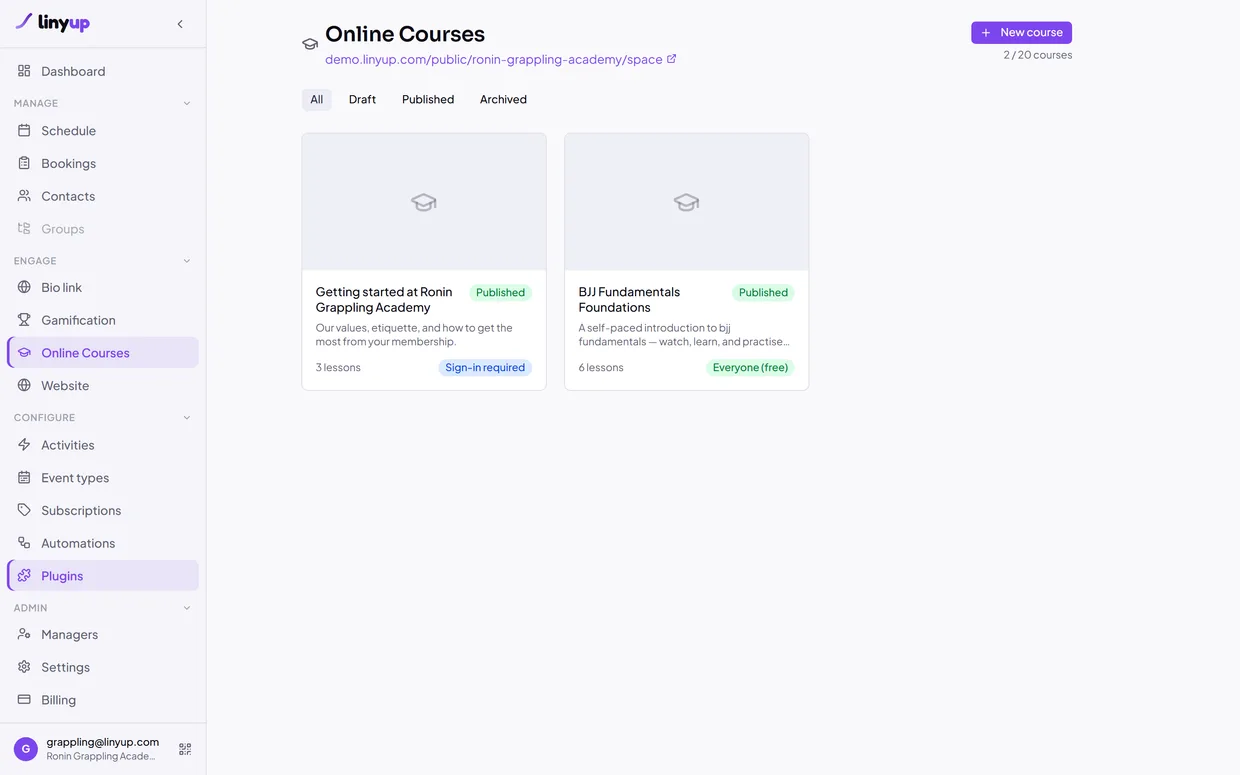
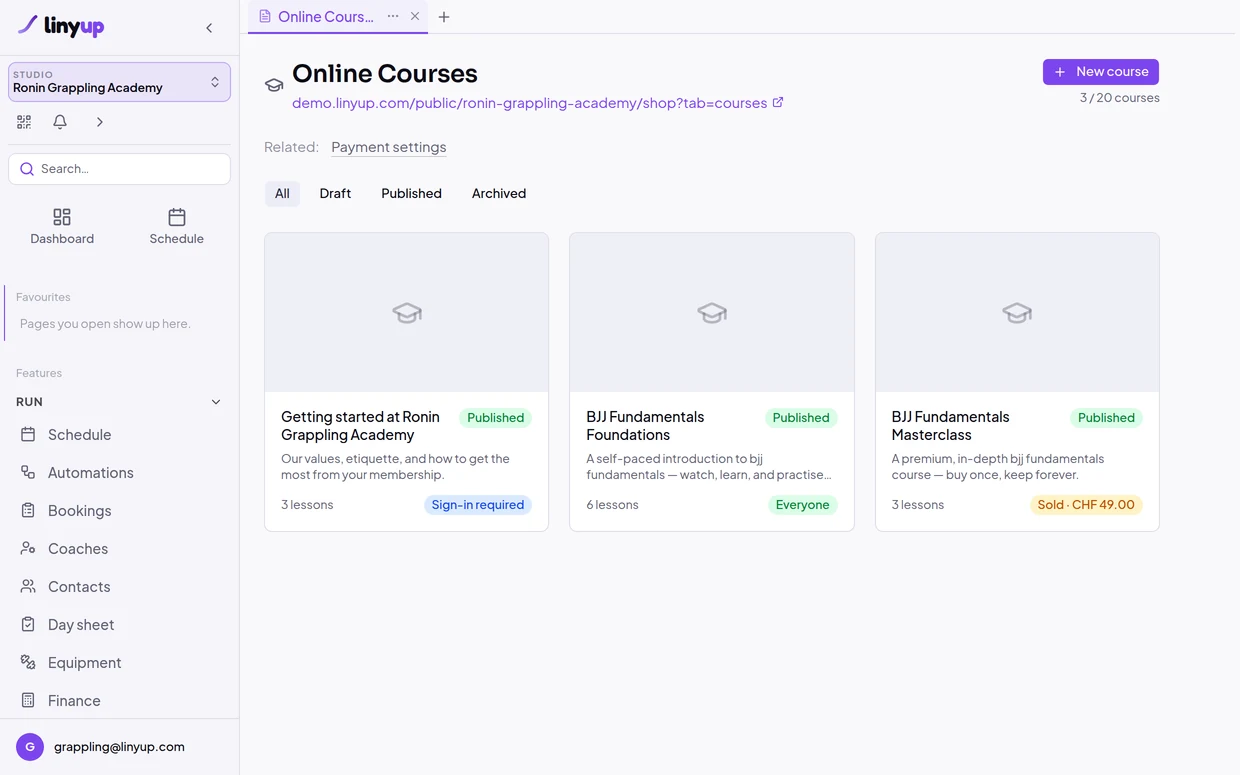
feat(landing): re-shoot every product screenshot, and ship each one in both themes
The six shots on the landing page were taken against a UI that has since moved
on — no scope switcher, no tab strip, a "Stats" tab on the contact page that no
longer exists, an Online Courses page at a route that now redirects. All six are
retaken from a production build of current main, driven headlessly against the
seeded emulator (the sandbox demo tenants, so the studio in the pictures is the
same Ronin Grappling Academy the demo chips just above them link to).

Each shot now ships twice — foo.webp and foo-dark.webp — and the pair renders
together, with global.css showing one. The theme rules mirror the token blocks
they sit under: the attribute BaseLayout's inline script resolves before paint,
plus a prefers-color-scheme fallback for a no-JS system-dark visit. The hidden
image is display:none, so it leaves the a11y tree and both can carry the same
alt text.

Those rules are the SOLE owner of `display` for a shot, and the three components
that frame one no longer set it. Astro scopes a component's selectors with a
[data-astro-cid-*] attribute, which lifts even `.shot-frame img` above anything
reasonable a global stylesheet can say — the first cut of this looked right in
light mode and rendered BOTH images in dark.

Also here:

- The showcase lightbox opens whichever of the pair is on screen (the hidden one
  has no layout box, so `offsetParent` answers without the script needing to know
  how the theme was resolved) rather than a `data-full` attribute that could only
[…]

diff --git a/apps/landing/src/styles/global.css b/apps/landing/src/styles/global.css
@@ -137,6 +137,30 @@ i[data-lucide] { display: inline-flex; }
 .btn-lg { height: 48px; padding: 0 24px; font-size: 15px; }
 .btn-block { justify-content: center; }
 
+/* ── Product screenshots follow the theme ───────────────────────────────────
+   Every product shot ships twice (foo.webp / foo-dark.webp) and the pair sits
+   in the DOM together; these rules show one. Same three-state shape as the
+   token blocks above, and for the same reason: BaseLayout's inline script
+   resolves data-theme before paint, so the attribute is the answer whenever
+   JS ran, and the media query is what a no-JS system-dark visit falls back to.
+
+   These rules are the SOLE owner of `display` for a shot: the components that
+   frame them (.shot-frame img, .frame-img, .pay-shot img) deliberately do not
+   set it. Astro scopes a component's selectors with a [data-astro-cid-*]
+   attribute, which lifts even `.shot-frame img` to (0,3,1) — so a component
+   rule saying `display: block` outranks anything sane written here and both
+   images render. Setting it in one place is cheaper than out-specifying that.
+   The hidden one is display:none, so it is out of the a11y tree too — which is
+   why both images carry the same alt text rather than one being aria-hidden. */
+img.shot-light { display: block; }
+img.shot-dark { display: none; }
+:root[data-theme="dark"] img.shot-light { display: none; }
+:root[data-theme="dark"] img.shot-dark { display: block; }
+@media (prefers-color-scheme: dark) {
+  :root:not([data-theme="light"]) img.shot-light { display: none; }
+  :root:not([data-theme="light"]) img.shot-dark { display: block; }
+}
+
 /* Eyebrow pill */
 .eyebrow { display: inline-flex; align-items: center; gap: 7px; font-size: 12px; font-weight: 600; text-transform: uppercase; letter-spacing: 0.08em; color: var(--purple-700); background: var(--purple-50); border: 1px solid var(--purple-200); padding: 5px 12px; border-radius: var(--radius-pill); }
 .eyebrow svg { width: 13px; height: 13px; }
